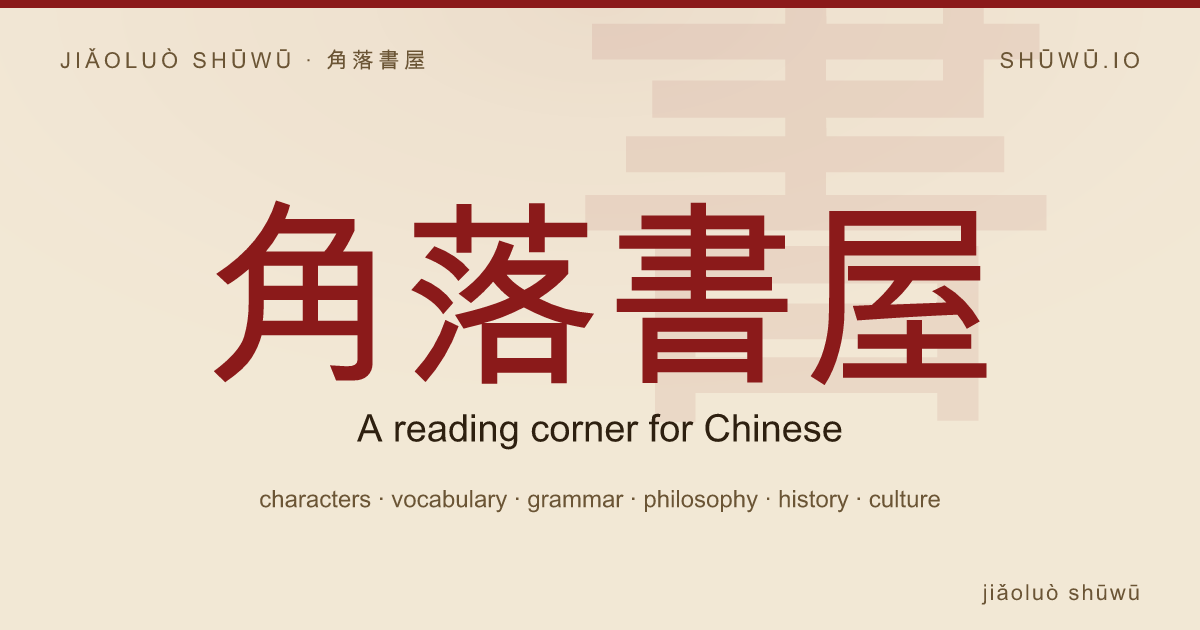
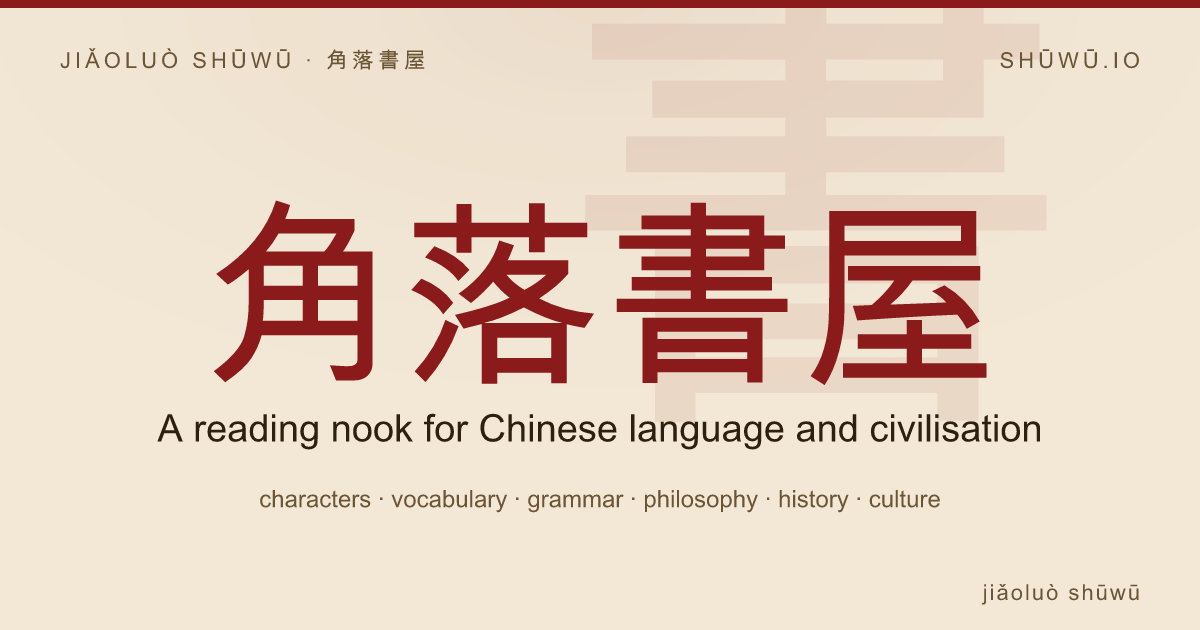
feat: centralize brand strings — single source for tagline + description
Replaces the scattered "A reading corner for Chinese" / "Notes on Chinese
language and civilisation" copies with one canonical brand module.

New: build/lib/brand.mjs
  Source of truth for cn/en wordmarks, domain, url, tagline, and the
  longer description (used in RSS / PWA manifest / OG cards).
  Edit at one place; every surface picks it up on next build.

  Tagline updated to "A reading nook for Chinese language and civilisation"
  (per Hunter — the previous "One character a week, written without flair"
  closer-slide line didn't convey the site's actual scope).

Wired through:
  - build/lib/og-svg.mjs        homepage 1200x630 OG card
  - build/build.mjs             RSS feed + PWA manifest description
  - index.html                  title, og/twitter tags, alternateName
  - pages/share/share.js        closer-slide CTA fallback. Fetches
                                data/brand.json on boot (emitted by
                                build); falls back to hardcoded defaults
                                so offline rendering still works.
  - content/characters/ai4_爱.md  drop the authored cta so ai4 falls
                                  back to the new default — validates
                                  the fallback path.

New build artifact:
  - data/brand.json             emitted once per build, fetched by
                                client-side renderers.

All checks green. Carousel closer slide now reads:
[…]

Changed region(s): [[0.1233, 0.6333, 0.8633, 0.7238]]

diff --git a/pages/share/share.js b/pages/share/share.js
@@ -50,8 +50,19 @@ const FONT_CN = '"Noto Serif SC", "PingFang SC", "Songti SC", "Hiragino Sans GB"
 const FONT_EN = '"EB Garamond", Georgia, "Times New Roman", serif';
 const FONT_MONO = '"JetBrains Mono", "SF Mono", Menlo, monospace';
 
-const BRAND_CN = '角落書屋';
-const BRAND_EN = 'Jiǎoluò Shūwū';
+// Brand strings — populated from data/brand.json on boot. Hard-coded
+// fallbacks match the build module so the page still renders sensibly
+// if brand.json fetch fails (offline, mid-deploy). Edit at one source:
+// build/lib/brand.mjs.
+const BRAND = {
+  cn: '角落書屋',
+  en: 'Jiǎoluò Shūwū',
+  domain: 'jiaoshoo.com',
+  tagline: 'A reading nook for Chinese language and civilisation',
+};
+// Aliases retained for callsite readability.
+let BRAND_CN = BRAND.cn;
+let BRAND_EN = BRAND.en;
 
 // ── Platforms ───────────────────────────────────────────────────────────
 //
@@ -107,6 +118,10 @@ const state = {
 window.addEventListener('DOMContentLoaded', boot);
 
 async function boot() {
+  // Pull brand strings before anything renders. Fast (small JSON, cached
+  // by the SW after first request), and lets us avoid duplicating taglines.
+  // Falls through silently to the hard-coded defaults if the fetch fails.
+  loadBrand();
   renderPlatformPicker();
   bindControls();
   const params = new URLSearchParams(location.search);
@@ -121,6 +136,17 @@ async function boot() {
     console.error(err);
     setStatus('Could not load that page. Check the URL and try again.', 'err');
   }
+}
+
+async function loadBrand() {
+  try {
+    const res = await fetch('../../data/brand.json');
+    if (!res.ok) return;
+    const data = await res.json();
+    Object.assign(BRAND, data);
+    BRAND_CN = BRAND.cn;
+    BRAND_EN = BRAND.en;
+  } catch (_) { /* keep defaults */ }
 }
 
 function showEmpty() {
@@ -1037,8 +1063,9 @@ function makeCloserSlide(source, platform) {
       ctx.textBaseline = 'middle';
       ctx.fillText('屋', w / 2, sealCy + h * 0.003);
 
-      // CTA at the bottom of the composition — authored or default.
-      const ctaText = share.cta || 'jiaoshoo.com';
+      // CTA at the bottom of the composition — authored cta wins; fall
+      // back to the brand tagline (single-source via build/lib/brand.mjs).
+      const ctaText = share.cta || BRAND.tagline;
       const ctaY = cy + h * 0.16;
       const ctaFs = Math.round(h * 0.028);
       const ctaLines = wrapLines(ctx, ctaText, w - padX * 2);

diff --git a/index.html b/index.html
@@ -3,7 +3,7 @@
 <head>
 <meta charset="UTF-8">
 <meta name="viewport" content="width=device-width, initial-scale=1.0">
-<title>Jiǎoluò Shūwū · 角落書屋 · A reading corner for the Chinese language and civilisation</title>
+<title>Jiǎoluò Shūwū · 角落書屋 · A reading nook for Chinese language and civilisation</title>
 
 <!-- SEO -->
 <meta name="description" content="A quiet corner of the Chinese language and the civilisation behind it: characters, vocabulary, grammar, philosophy, history, food, tea, and culture. Free, browsable, written to be lingered over.">
@@ -26,14 +26,14 @@
 
 <!-- Open Graph -->
 <meta property="og:type" content="website">
-<meta property="og:title" content="Jiǎoluò Shūwū · 角落書屋 · A reading corner for Chinese">
+<meta property="og:title" content="Jiǎoluò Shūwū · 角落書屋 · A reading nook for Chinese">
 <meta property="og:description" content="A quiet corner of the Chinese language and the civilisation behind it: characters, vocabulary, grammar, philosophy, history, food, tea, and culture.">
 <meta property="og:url" content="https://jiaoshoo.com/">
 <meta property="og:image" content="https://jiaoshoo.com/assets/og-image.png">
 <meta property="og:image:type" content="image/png">
 <meta property="og:image:width" content="1200">
 <meta property="og:image:height" content="630">
-<meta property="og:image:alt" content="Jiǎoluò Shūwū · 角落書屋 · a reading corner for Chinese language and civilisation">
+<meta property="og:image:alt" content="Jiǎoluò Shūwū · 角落書屋 · a reading nook for Chinese language and civilisation">
 <meta property="og:image" content="https://jiaoshoo.com/assets/og-image.svg">
 <meta property="og:image:type" content="image/svg+xml">
 <meta property="og:locale" content="en_US">
@@ -41,10 +41,10 @@
 
 <!-- Twitter -->
 <meta name="twitter:card" content="summary_large_image">
-<meta name="twitter:title" content="Jiǎoluò Shūwū · 角落書屋 · A reading corner for Chinese">
+<meta name="twitter:title" content="Jiǎoluò Shūwū · 角落書屋 · A reading nook for Chinese">
 <meta name="twitter:description" content="Characters, philosophy, history, food, and tea. A quiet corner of Chinese to linger in.">
 <meta name="twitter:image" content="https://jiaoshoo.com/assets/og-image.png">
-<meta name="twitter:image:alt" content="Jiǎoluò Shūwū · 角落書屋 · a reading corner for Chinese language and civilisation">
+<meta name="twitter:image:alt" content="Jiǎoluò Shūwū · 角落書屋 · a reading nook for Chinese language and civilisation">
 
 <!-- JSON-LD: WebSite + search action -->
 <script type="application/ld+json">
@@ -52,7 +52,7 @@
   "@context": "https://schema.org",
   "@type": "WebSite",
   "name": "Jiǎoluò Shūwū · 角落書屋",
-  "alternateName": "A Reading Corner for Chinese",
+  "alternateName": "A Reading Nook for Chinese",
   "url": "https://jiaoshoo.com/",
   "description": "A quiet corner (角落書屋) of the Chinese language and the civilisation behind it. Characters, vocabulary, grammar, philosophy, history, food, tea, and culture.",
   "inLanguage": ["en", "zh-Hans"],

diff --git a/pages/_admin/review.html b/pages/_admin/review.html
@@ -369,7 +369,7 @@ var _reveal = setInterval(function () {
   </header>
 
   <div class="adm-header-meta">
-    <span>findings updated 11 May 2026, 15:51</span>
+    <span>findings updated 11 May 2026, 16:49</span>
     <span class="sep">·</span>
     <span>0 errors · 18 warnings · 381 info</span>
   </div>

diff --git a/pages/characters/ai4_爱.html b/pages/characters/ai4_爱.html
@@ -1,5 +1,5 @@
 <!DOCTYPE html>
-<!-- {"type":"character","char":"爱","pinyin":"ài","tone":4,"hsk":1,"radical":"爫","category":"characters","tags":["emotion","romance","confucianism"],"status":"complete","share":{"hook":"Why does the traditional 愛 contain a heart, and what changed when simplification took it out?","beats":["愛 stacks 爫 (a hand reaching) over 心 (heart) over 夂 (a slow walking foot). Love as a heart carried forward by deliberate steps, not a static state.","Simplified 爱 strips out 心 entirely. The hand still reaches, the foot still walks, but the heart is gone.","没有心的爱, 'love without a heart', became a quiet complaint in Taiwan and Hong Kong when simplified script spread.","我爱你 stays heavy in Chinese. Reserved for deep romantic love, close family, your homeland. For pizza, use 喜欢."],"cta":"One character a week, written without flair. jiaoshoo.com"}} -->
+<!-- {"type":"character","char":"爱","pinyin":"ài","tone":4,"hsk":1,"radical":"爫","category":"characters","tags":["emotion","romance","confucianism"],"status":"complete","share":{"hook":"Why does the traditional 愛 contain a heart, and what changed when simplification took it out?","beats":["愛 stacks 爫 (a hand reaching) over 心 (heart) over 夂 (a slow walking foot). Love as a heart carried forward by deliberate steps, not a static state.","Simplified 爱 strips out 心 entirely. The hand still reaches, the foot still walks, but the heart is gone.","没有心的爱, 'love without a heart', became a quiet complaint in Taiwan and Hong Kong when simplified script spread.","我爱你 stays heavy in Chinese. Reserved for deep romantic love, close family, your homeland. For pizza, use 喜欢."]}} -->
 <html lang="zh-Hans">
 <head>
 <meta charset="UTF-8">

diff --git a/content/characters/ai4_爱.md b/content/characters/ai4_爱.md
@@ -26,7 +26,6 @@ share:
     - "Simplified 爱 strips out 心 entirely. The hand still reaches, the foot still walks, but the heart is gone."
     - "没有心的爱, 'love without a heart', became a quiet complaint in Taiwan and Hong Kong when simplified script spread."
     - "我爱你 stays heavy in Chinese. Reserved for deep romantic love, close family, your homeland. For pizza, use 喜欢."
-  cta: "One character a week, written without flair. jiaoshoo.com"
 ---
 
 